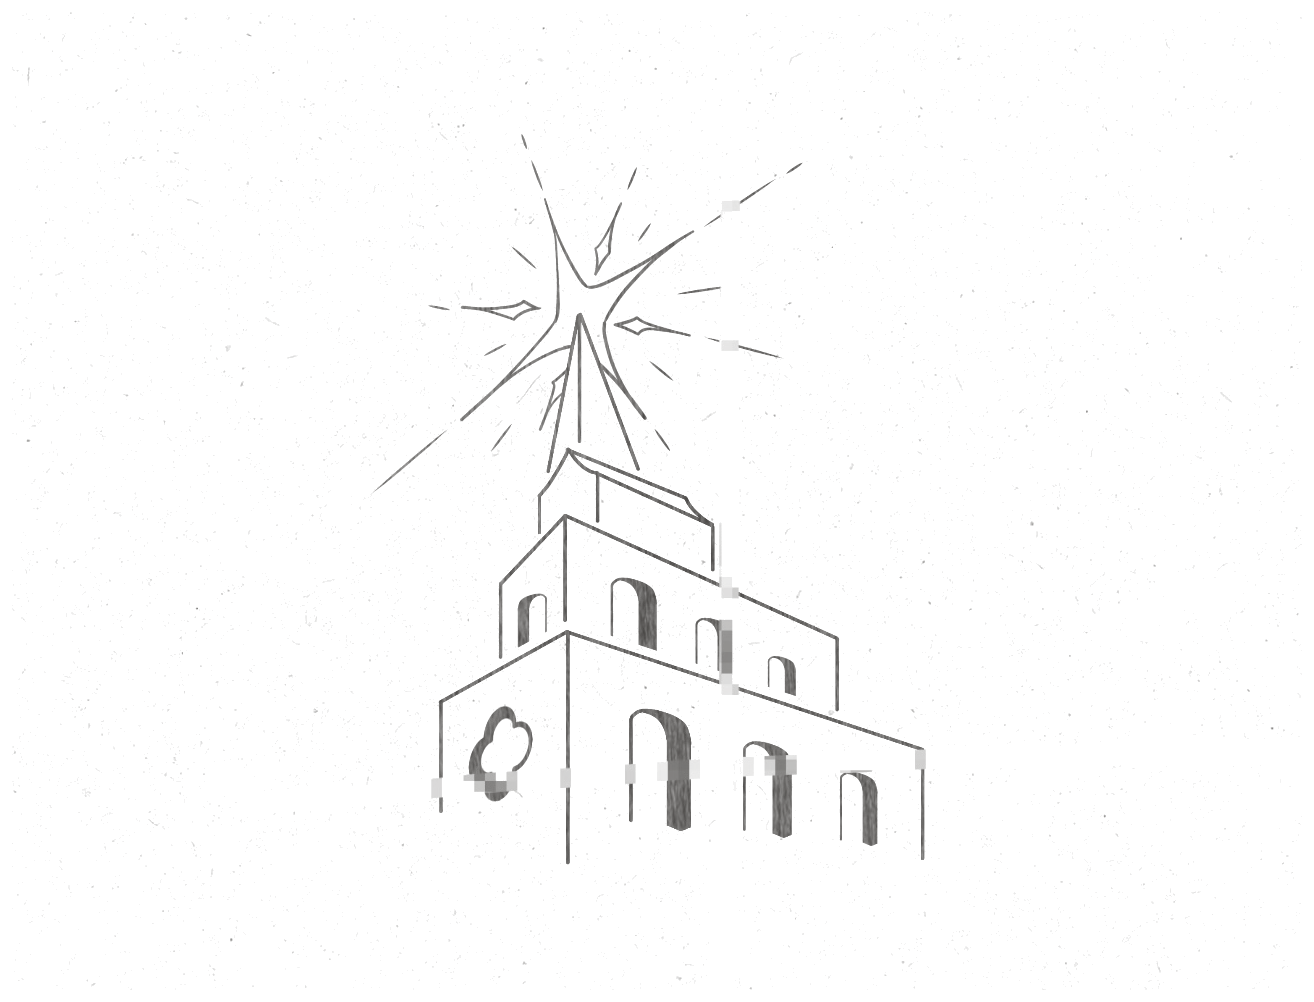
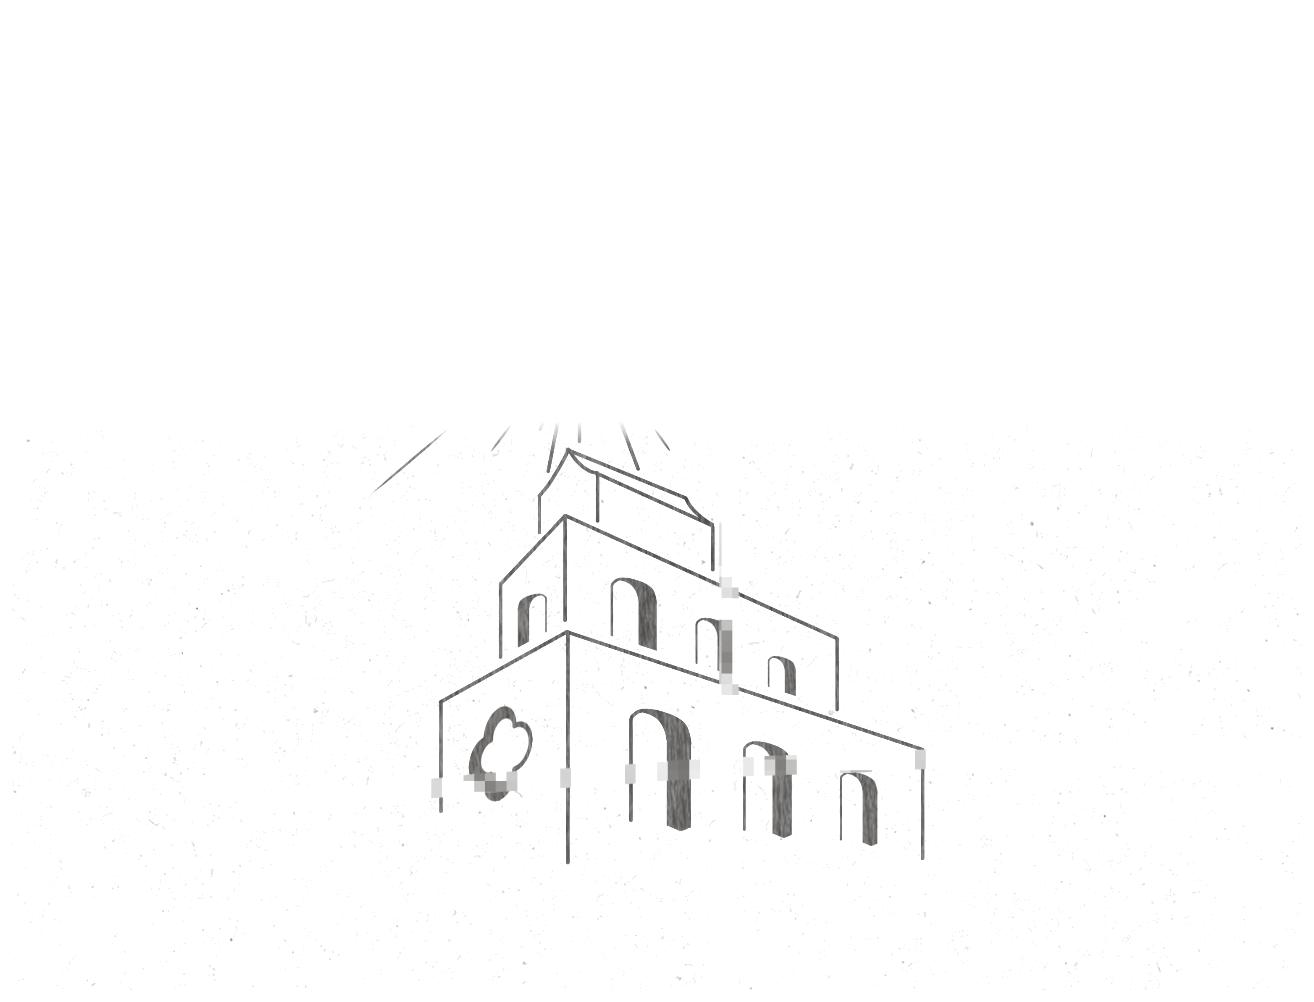
Round 19: night-mode luminance pass — chapel spire star split into accent layer with soft breathing glow; angel moved to home sigil finale with halo; constellation sheen after dark

Changed region(s): [[0.3744, 0.2166, 0.5304, 0.4331], [0.5304, 0.3403, 0.5616, 0.3713]]

diff --git a/docs/css/style.css b/docs/css/style.css
@@ -306,7 +306,30 @@ img { max-width: 100%; display: block; }
   max-width: 1080px; margin: 0 auto;
   padding: 10px 40px 90px;
   display: flex; flex-direction: column; align-items: center; gap: 44px;
+  position: relative;
 }
+/* the pencil angel: the homepage's closing emblem, drifting a breath
+   behind the sigil. Present in daylight; after dark she turns pale
+   ink with a soft halo — the page's quiet apotheosis */
+.home-angel {
+  position: absolute; left: 50%; top: 50%;
+  translate: -50% -50%;
+  width: min(540px, 88vw);
+  opacity: 0.2; pointer-events: none;
+  mix-blend-mode: multiply;
+  animation: angel-drift 9s ease-in-out infinite;
+}
+@keyframes angel-drift {
+  0%, 100% { translate: -50% -50%; }
+  50%      { translate: -50% calc(-50% - 8px); }
+}
+[data-theme="dark"] .home-angel {
+  mix-blend-mode: normal;
+  opacity: 0.42;
+  filter: invert(0.92) drop-shadow(0 0 22px rgba(235, 233, 229, 0.22));
+}
+@media (max-width: 720px) { .home-angel { width: min(340px, 92vw); } }
+@media (prefers-reduced-motion: reduce) { .home-angel { animation: none; } }
 .sigil-rule { width: min(340px, 60vw); height: 1px; background: var(--line); position: relative; }
 .sigil-rule::before, .sigil-rule::after {
   content: ""; position: absolute; top: -2.5px; width: 5px; height: 5px;
@@ -1262,35 +1285,58 @@ img { max-width: 100%; display: block; }
   .about-figure { width: 44%; margin: 2px 0 14px 16px; }
 }
 
-/* ---------- owner-provided line-art emblems (R18) ----------
-   three quiet watermarks, one per page, all printed in site ink:
-   chapel → guestbook · constellation → catalog · angel → hobbies.
-   Daylight: multiply onto the paper; night: inverted to pale ink. */
-.gb-chapel, .cat-stars, .hob-angel {
+/* ---------- owner-provided line-art emblems (R18/R19) ----------
+   line art printed in site ink, one quiet emblem per page:
+   chapel → guestbook · constellation → catalog · angel → home finale.
+   Daylight: multiply onto the paper; night: per-emblem treatment below. */
+.gb-chapel, .cat-stars {
   position: absolute; pointer-events: none;
   mix-blend-mode: multiply;
 }
-[data-theme="dark"] .gb-chapel,
-[data-theme="dark"] .cat-stars,
-[data-theme="dark"] .hob-angel { mix-blend-mode: normal; filter: invert(0.92); }
 
-/* a small chapel with a shining spire, watching over the notes */
-.gb-chapel { top: 0; right: 0; width: 225px; opacity: 0.2; z-index: -1; }
-[data-theme="dark"] .gb-chapel { opacity: 0.32; }
+/* a small chapel watching over the notes — the spire star is a
+   separate accent-red layer that wakes up after dark with a soft,
+   slow-breathing glow (visible, never harsh) */
+.gb-chapel {
+  position: absolute; top: 0; right: 0; width: 225px;
+  opacity: 0.2; z-index: -1; pointer-events: none;
+  mix-blend-mode: multiply;
+}
+.gb-chapel img { width: 100%; display: block; }
+.gb-chapel-star { position: absolute; inset: 0; }
+[data-theme="dark"] .gb-chapel { mix-blend-mode: normal; opacity: 0.42; }
+[data-theme="dark"] .gb-chapel img:first-child { filter: invert(0.92); }
+[data-theme="dark"] .gb-chapel-star {
+  mix-blend-mode: screen;
+  filter: brightness(1.55) drop-shadow(0 0 10px rgba(212, 96, 79, 0.75)) drop-shadow(0 0 26px rgba(212, 96, 79, 0.4));
+  animation: chapel-star-breathe 5.2s ease-in-out infinite;
+}
+@keyframes chapel-star-breathe {
+  0%, 100% { opacity: 0.85; }
+  50%      { opacity: 1; }
+}
+@media (prefers-reduced-motion: reduce) {
+  [data-theme="dark"] .gb-chapel-star { animation: none; }
+}
 
-/* a compass rose ringed by constellations — the index's night sky */
+/* a compass rose ringed by constellations — the index's night sky;
+   after dark it catches a faint stellar sheen of its own */
 .section { position: relative; }
 .cat-stars { top: 16px; right: 16px; width: 285px; opacity: 0.17; }
-[data-theme="dark"] .cat-stars { opacity: 0.26; }
+[data-theme="dark"] .cat-stars {
+  mix-blend-mode: normal;
+  opacity: 0.4;
+  filter: invert(0.92) drop-shadow(0 0 9px rgba(235, 233, 229, 0.28));
+}
 
-/* a pencil angel drifting behind the things I love */
-.hob-angel { top: 200px; right: -8px; width: 315px; opacity: 0.13; z-index: -1; }
-[data-theme="dark"] .hob-angel { opacity: 0.2; }
+/* the pencil angel's home is the homepage finale — see .home-sigil */
 
 @media (max-width: 880px) {
   .gb-chapel { width: 125px; opacity: 0.16; }
   .cat-stars { width: 150px; top: 12px; right: 10px; opacity: 0.13; }
-  .hob-angel { width: 150px; top: 130px; left: -14px; right: auto; opacity: 0.09; }
+}
+@media (max-width: 880px) {
+  [data-theme="dark"] .cat-stars { opacity: 0.3; }
 }
 .portrait-note {
   margin-top: 10px; font-family: var(--serif); font-style: italic;

diff --git a/docs/guestbook.html b/docs/guestbook.html
@@ -15,8 +15,12 @@
   <header class="site-header" id="siteHeader"></header>
 
   <section class="gb-wrap">
-    <!-- a small chapel with a shining spire — every note rests here -->
-    <img class="gb-chapel" src="assets/deco_chapel.webp" alt="" aria-hidden="true" decoding="async" />
+    <!-- a small chapel — its spire star burns accent red, and glows
+         softly after dark (two stacked layers, same canvas) -->
+    <span class="gb-chapel" aria-hidden="true">
+      <img src="assets/deco_chapel.webp" alt="" decoding="async" />
+      <img class="gb-chapel-star" src="assets/deco_chapel_star.webp" alt="" decoding="async" />
+    </span>
     <div class="section-head">
       <span class="zh" data-i18n="gb_title">Guestbook</span>
       <span class="en" data-i18n="gb_en">LEAVE A NOTE</span>

diff --git a/docs/index.html b/docs/index.html
@@ -217,8 +217,10 @@
     </div>
   </section>
 
-  <!-- Hexagram sigil — the old friend, back on the homepage -->
+  <!-- Hexagram sigil — the old friend, back on the homepage,
+       now watched over by the pencil angel drifting behind it -->
   <section class="home-sigil" aria-hidden="true">
+    <img class="home-angel" src="assets/deco_angel.webp" alt="" decoding="async" />
     <span class="sigil-rule"></span>
     <div class="sigil">
       <svg class="sigil-svg" viewBox="0 0 400 400" fill="none">

diff --git a/docs/hobbies.html b/docs/hobbies.html
@@ -15,8 +15,6 @@
   <header class="site-header" id="siteHeader"></header>
 
   <section class="hob-wrap">
-    <!-- a pencil angel, drifting quietly behind the things I love -->
-    <img class="hob-angel" src="assets/deco_angel.webp" alt="" aria-hidden="true" decoding="async" />
     <div class="section-head" data-reveal>
       <span class="zh" data-i18n="hob_title">Hobbies</span>
       <span class="en" data-i18n="hob_en">THINGS I LOVE</span>

diff --git a/tools/split-chapel.py b/tools/split-chapel.py
@@ -1,0 +1,45 @@
+# split-chapel.py — re-cut the chapel into TWO same-size layers:
+# building (site ink) + star burst (accent red), so the star alone can
+# glow in dark mode. Soft 28px alpha-blend zone hides the seam.
+import numpy as np
+from PIL import Image
+
+INK = (59, 58, 56)      # --ink #3b3a38
+ACCENT = (158, 43, 37)  # --accent #9e2b25
+
+SRC = 'C:/Users/杨坤/Pictures/Saved Pictures/9DF58805474C1DFC3C2C1A66A0B3876C.jpg'
+A = 'C:/Users/Public/koyome-site/docs/assets/'
+
+im = Image.open(SRC).convert('RGB')
+a = np.asarray(im).astype(np.float32)
+l = 0.2126 * a[..., 0] + 0.7152 * a[..., 1] + 0.0722 * a[..., 2]
+alpha = np.clip((l - 18) * 1.1, 0, 255)
+alpha[alpha < 14] = 0
+
+# trim to content, pad, cap width (same pipeline as cutout-deco.py)
+tmp = Image.fromarray(np.dstack([np.zeros_like(l), np.zeros_like(l), np.zeros_like(l), alpha]).astype(np.uint8), 'RGBA')
+bbox = tmp.getbbox()
+tmp = tmp.crop(bbox)
+pad = max(6, tmp.width // 100)
+canvas = Image.new('RGBA', (tmp.width + pad * 2, tmp.height + pad * 2), (0, 0, 0, 0))
+canvas.paste(tmp, (pad, pad))
+if canvas.width > 1400:
+    canvas = canvas.resize((1400, round(canvas.height * 1400 / canvas.width)), Image.LANCZOS)
+al = np.asarray(canvas)[..., 3].astype(np.float32)
+
+H = al.shape[0]
+CUT = int(H * 0.435)          # star rays end just above the roofline
+BLEND = 28
+t = np.clip((np.arange(H) - (CUT - BLEND // 2)) / BLEND, 0, 1)  # 0=star … 1=building
+star_mask = (1 - t)[:, None]
+build_mask = t[:, None]
+
+def layer(mask, color, dst):
+    out = np.zeros((H, al.shape[1], 4), dtype=np.uint8)
+    out[..., 0], out[..., 1], out[..., 2] = color
+    out[..., 3] = np.clip(al * mask, 0, 255).astype(np.uint8)
+    Image.fromarray(out, 'RGBA').save(dst, 'WEBP', quality=90, method=6)
+    print(dst, canvas.size)
+
+layer(build_mask, INK, A + 'deco_chapel.webp')
+layer(star_mask, ACCENT, A + 'deco_chapel_star.webp')

diff --git a/AI-HANDOVER.md b/AI-HANDOVER.md
@@ -1,8 +1,18 @@
 # Koyome.me — 项目交接文档（AI Handover）
 
 > 写给下一个接管本项目的 AI（或人类开发者）：**读完这一份，即拥有继续开发的全部上下文。**
-> 最后更新：2026-09-24（第十八轮：新人物形象 t2 页入画 + 三张线稿素材抠图分发三页）**本轮未推送，由用户一键脚本自行上线**
+> 最后更新：2026-09-24（第十九轮：夜间发光质感——教堂星光呼吸 / 天使移驻主页底部 / 星座微光）**本轮未推送，由用户一键脚本自行上线**
 > 仓库 HEAD：`ffcf7bf`（第十六轮已 commit，线上待用户推送）｜ ⚠ 常驻推送授权**已于 2026-09-23 取消**：AI 推送前必须逐次征得用户同意（§4.3）
+
+---
+
+## 0.17 第十九轮速览（2026-09-24）
+
+- **教堂尖顶发光（用户点名）**：`tools/split-chapel.py` 把教堂拆成同尺寸双层——建筑（墨色）+ 尖顶星光（**烘焙 accent 红 #9e2b25**，软混合带藏接缝）→ `deco_chapel.webp` + `deco_chapel_star.webp`。guestbook.html 改 `.gb-chapel` 为双层叠放 span；白天红星配墨建筑（贴合全站红色 accent 方言），夜间星光层 `mix-blend:screen + brightness(1.55) + 双层 drop-shadow 红晕`，加 5.2s 柔和呼吸（chapel-star-breathe，RM 静止）；建筑层夜间 invert(0.92)，整体 opacity 升至 .42。
+- **天使移驻主页底部（用户指定）**：从爱好页移除，移至**首页六芒星区**（.home-sigil 第一子元素，垫在六芒星之下居中，width min(540px,88vw)）——白天 opacity .2 multiply 印纸，9s 极缓漂浮（angel-drift，±8px，用独立 `translate` 属性写 keyframes）；夜间 invert(0.92) 转淡墨 + 柔和光晕（drop-shadow 22px, .22），opacity .42。移动端 min(340px,92vw)。RM 全程静止。
+- **星座罗盘夜间微光**：`.cat-stars` 夜间 opacity .4 + invert + 淡白 drop-shadow（9px, .28）。
+- **教训记录**：通用规则块（`.gb-chapel,.cat-stars,.hob-angel` 的 dark invert）会与夜间专项发光规则冲突——专项规则要显式重置 `mix-blend-mode`。
+- **验证**：jsdom 24/24 绿；未截图（用户要求本地自验）。**本轮代码未推送**（用户一键脚本自行上线，§4.3）。
 
 ---
 
